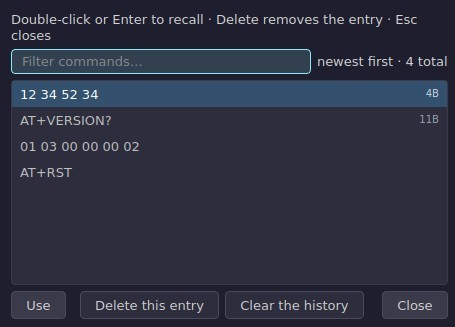
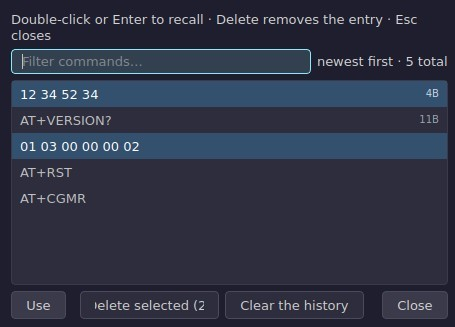
feat(history): multi-select, select-all and batch delete (U183)
The history list was single-selection with a one-row delete. It now uses ExtendedSelection
(Ctrl/Shift click, Ctrl+A limited to the visible rows), the delete button reads
"Delete selected (N)" and greys out when nothing is selected, and one click drops the
whole selection (rows removed high-to-low so indices stay valid, meta cleaned, config
persisted). Enter/double-click fill is unchanged. Three new tests (150 total).
History screenshots regenerated for the new button state.

diff --git a/ui/history_dialog.py b/ui/history_dialog.py
@@ -15,6 +15,7 @@ import time
 from PySide6.QtCore import QRect, Qt, QTimer, Signal
 from PySide6.QtGui import QColor, QFont, QFontMetrics, QKeySequence, QShortcut
 from PySide6.QtWidgets import (
+    QAbstractItemView,
     QApplication,
     QDialog,
     QHBoxLayout,
@@ -106,7 +107,7 @@ class HistoryDialog(QDialog):
     """List of recently sent commands, newest first."""
 
     fill_requested = Signal(str)     # put this text back in the send box
-    delete_requested = Signal(int)   # drop the entry at this row
+    delete_requested = Signal(list)  # drop the entries at these rows (U183: batch)
     clear_requested = Signal()       # forget everything
 
     def __init__(self, parent: QWidget | None = None):
@@ -126,8 +127,9 @@ class HistoryDialog(QDialog):
         self._build_list(layout)
         self._build_buttons(layout)
 
-        QShortcut(QKeySequence(Qt.Key.Key_Delete), self, activated=self._delete_current)
+        QShortcut(QKeySequence(Qt.Key.Key_Delete), self, activated=self._delete_selected)
         QShortcut(QKeySequence(Qt.Key.Key_Escape), self, activated=self.close)
+        QShortcut(QKeySequence("Ctrl+A"), self, activated=self._select_all_visible)
 
         self._restore_size()
         self._apply_filter()
@@ -151,6 +153,9 @@ class HistoryDialog(QDialog):
     def _build_list(self, layout: QVBoxLayout) -> None:
         """The monospace history list and the empty-state label."""
         self.list = QListWidget()
+        # U183: multi-select (Ctrl / Shift click, Ctrl+A) so entries can be deleted
+        # as a batch; Ctrl+A is handled by the shortcut above (QListWidget has none).
+        self.list.setSelectionMode(QAbstractItemView.SelectionMode.ExtendedSelection)
         mono = QFont()
         mono.setFamily(MONO_FAMILIES)
         self.list.setFont(mono)
@@ -159,6 +164,7 @@ class HistoryDialog(QDialog):
         self.list.itemDoubleClicked.connect(self._on_activate)
         self.list.itemActivated.connect(self._on_activate)   # Enter key
         self.list.currentRowChanged.connect(lambda _r: self._sync_buttons())
+        self.list.itemSelectionChanged.connect(self._sync_buttons)
         layout.addWidget(self.list, 1)
 
         self.empty_lbl = QLabel(tr("tx.history.empty"))
@@ -176,7 +182,7 @@ class HistoryDialog(QDialog):
         row.addSpacing(8)
         self.del_btn = QPushButton(tr("tx.history.delete"))
         self.del_btn.setProperty("secondary", True)    # quieter, sits next to fill
-        self.del_btn.clicked.connect(self._delete_current)
+        self.del_btn.clicked.connect(self._delete_selected)
         row.addWidget(self.del_btn)
 
         row.addStretch(1)                              # keep the destructive pair apart
@@ -270,10 +276,28 @@ class HistoryDialog(QDialog):
 
     def _sync_buttons(self) -> None:
         has_rows = self.list.count() > 0
-        has_sel = self.list.currentRow() >= 0 and has_rows and not self.list.currentItem().isHidden()
-        self.fill_btn.setEnabled(bool(has_sel))
-        self.del_btn.setEnabled(bool(has_sel))
+        selected = self._selected_rows()
+        one = self.list.currentRow() >= 0 and has_rows \
+            and not self.list.currentItem().isHidden()
+        self.fill_btn.setEnabled(bool(one))
+        self.del_btn.setEnabled(bool(selected))
+        self.del_btn.setText(tr("tx.history.delete.n", n=len(selected)) if len(selected) > 1
+                             else tr("tx.history.delete"))
         self.clear_btn.setEnabled(has_rows)
+
+    def _selected_rows(self) -> list:
+        """Visible selected rows, ascending (hidden rows are filtered out)."""
+        return sorted(i for i in range(self.list.count())
+                      if self.list.item(i).isSelected() and not self.list.item(i).isHidden())
+
+    def _select_all_visible(self) -> None:
+        """U183: Ctrl+A selects what is on screen - never the filtered-out rows."""
+        self.list.clearSelection()
+        for i in range(self.list.count()):
+            item = self.list.item(i)
+            if not item.isHidden():
+                item.setSelected(True)
+        self._sync_buttons()
 
     # -- actions -------------------------------------------------------------
 
@@ -287,10 +311,11 @@ class HistoryDialog(QDialog):
             self.fill_requested.emit(text)
             self.close()                        # match the double-click behaviour (P1.8)
 
-    def _delete_current(self) -> None:
-        row = self.list.currentRow()
-        if row >= 0 and not self.list.item(row).isHidden():
-            self.delete_requested.emit(row)
+    def _delete_selected(self) -> None:
+        """U183: drop every visible selected row in one batch."""
+        rows = self._selected_rows()
+        if rows:
+            self.delete_requested.emit(rows)
             self._disarm_clear()
 
     def _on_activate(self, item: QListWidgetItem) -> None:

diff --git a/tests/test_history_batch.py b/tests/test_history_batch.py
@@ -1,0 +1,72 @@
+"""U183: batch selection and deletion in the send-history dialog."""
+
+import os
+
+os.environ.setdefault("QT_QPA_PLATFORM", "offscreen")
+
+import pytest                                            # noqa: E402
+
+pytest.importorskip("PySide6")
+
+from PySide6.QtWidgets import QApplication               # noqa: E402
+
+
+@pytest.fixture(scope="module")
+def app():
+    application = QApplication.instance() or QApplication([])
+    return application
+
+
+@pytest.fixture(scope="module")
+def win(app):
+    from ui.main_window import MainWindow
+    window = MainWindow()
+    window.resize(1200, 700)
+    window.show()
+    for _ in range(3):
+        app.processEvents()
+    yield window
+    window.close()
+
+
+def _seed(win, items: list) -> object:
+    """Give the window this history and open the dialog on it."""
+    win._send_history = list(items)
+    win._history_meta = {}
+    win._show_history()
+    dlg = win._history_dlg
+    dlg.filter_edit.clear()      # a leftover filter would hide the seeded rows
+    dlg.list.clearSelection()
+    return dlg
+
+
+def test_batch_delete_removes_every_selected_row(win):
+    """U183: multi-select (Ctrl/Shift) deletes the whole selection in one call."""
+    dlg = _seed(win, ["A", "B", "C", "D"])
+    dlg.list.item(0).setSelected(True)
+    dlg.list.item(2).setSelected(True)
+    assert dlg._selected_rows() == [0, 2]
+    from ui.send_controller import remove_history_entries
+    remove_history_entries(win, dlg._selected_rows())
+    assert win._send_history == ["B", "D"], win._send_history
+
+
+def test_select_all_skips_filtered_out_rows(win):
+    """Ctrl+A must only touch what is on screen, never the filtered-out rows."""
+    dlg = _seed(win, ["AT", "01 03 00 00 00 02", "AT+RST"])
+    dlg.filter_edit.setText("AT")                  # hides the Modbus frame
+    dlg._select_all_visible()
+    rows = dlg._selected_rows()
+    assert rows, "the visible matches should be selected"
+    for row in rows:
+        assert not dlg.list.item(row).isHidden(), row
+    assert len(rows) < 3, "the hidden row must not be selected"
+
+
+def test_single_row_delete_still_works(win):
+    """The old one-row path keeps working (the button label falls back)."""
+    dlg = _seed(win, ["one", "two"])
+    dlg.list.item(1).setSelected(True)
+    assert dlg._selected_rows() == [1]
+    dlg.del_btn.click()
+    assert win._send_history == ["one"], win._send_history

diff --git a/ui/main_window.py b/ui/main_window.py
@@ -87,7 +87,7 @@ from ui.retranslate import retranslate_ui
 from ui.menus import build_menu
 from ui.log_controller import apply_autosave_settings, log_append, log_close, log_header_text, log_open, on_log_line, on_save_log_as, on_save_log_quick, show_autosave_settings
 from ui.receive_controller import append_header_split, append_rx_group, emit_rx_text, flush_byte_frames, flush_rx_frames, on_clear, on_clear_and_counters, on_received, recolor_rx_view, resume_rx_display, rx_tooltip, snapshot_rx_fragments, on_reset_counters, on_filter_changed
-from ui.send_controller import abort_file_send, apply_checksum, clear_history, finish_file_send, flush_history_save, on_history_fill, on_increment_changed, on_quick_send, on_send, on_send_file, prune_history_meta, recall_history, remember_send, remove_history_entry, reset_increment, schedule_history_save, send_file_chunk, show_history, update_history_button, update_payload_size
+from ui.send_controller import abort_file_send, apply_checksum, clear_history, finish_file_send, flush_history_save, on_history_fill, on_increment_changed, on_quick_send, on_send, on_send_file, prune_history_meta, recall_history, remember_send, remove_history_entries, reset_increment, schedule_history_save, send_file_chunk, show_history, update_history_button, update_payload_size
 from ui.connection_controller import ensure_port, notify, on_opened_changed, on_reconnect_toggled, on_worker_error, poll_signals, recolor_status_light, refresh_ports, signals_html, toggle_open, update_port_tooltip
 from ui.params_controller import baud_value, check_baud, check_hex_input, encoding, format_rx, newline_bytes, on_header_changed, on_split_mode_changed, on_tx_fmt_changed, persist_newline, refresh_tx_settings_chip, serial_params, split_byte_params, split_threshold_ms, ts_prefix, update_input_placeholder
 from ui.layout_controller import control_rows, fit_minimum_width, fit_pane_minimums, fit_settings_btn, fit_tx_edit_height, give_data_area_the_room, lock_control_widths, row_need, saved_sizes, widest_row
@@ -608,7 +608,7 @@ class MainWindow(QMainWindow):
 
     def _update_history_button(self) -> None: return update_history_button(self)
 
-    def _remove_history_entry(self, row: int) -> None: return remove_history_entry(self, row)
+    def _remove_history_entries(self, rows: list) -> None: return remove_history_entries(self, rows)
 
     def _clear_history(self) -> None: return clear_history(self)
 

diff --git a/ui/send_controller.py b/ui/send_controller.py
@@ -218,7 +218,7 @@ def show_history(win: MainWindow) -> None:
     if win._history_dlg is None:
         win._history_dlg = HistoryDialog(win)
         win._history_dlg.fill_requested.connect(win._on_history_fill)
-        win._history_dlg.delete_requested.connect(win._remove_history_entry)
+        win._history_dlg.delete_requested.connect(win._remove_history_entries)
         win._history_dlg.clear_requested.connect(win._clear_history)
     win._history_dlg.set_history(win._send_history, win._history_meta)
     win._history_dlg.show()
@@ -294,16 +294,32 @@ def update_history_button(win: MainWindow) -> None:
     if win._history_dlg is not None:
         win._history_dlg.set_history(win._send_history, win._history_meta)
 
+def remove_history_entries(win: MainWindow, rows: list) -> None:
+    """Drop several entries at once (U183) and persist.
+
+    Rows are deleted from the highest index down so the earlier indices stay valid.
+    """
+    clean = sorted({int(r) for r in rows if 0 <= int(r) < len(win._send_history)},
+                   reverse=True)
+    if not clean:
+        return
+    removed = []
+    for row in clean:
+        text = win._send_history.pop(row)
+        win._history_meta.pop(text, None)
+        removed.append(text)
+    win._update_history_button()
+    win._schedule_history_save()
+    if len(removed) == 1:
+        win._notify(tr("tx.history.removed", text=removed[0]), "info", ms=3000)
+    else:
+        win._notify(tr("tx.history.removed.n", n=len(removed)), "info", ms=3000)
+
+
 def remove_history_entry(win: MainWindow, row: int) -> None:
     "remove history entry"
     """Drop one entry from the send history and persist (U77)."""
-    if not (0 <= row < len(win._send_history)):
-        return
-    removed = win._send_history.pop(row)
-    win._history_meta.pop(removed, None)
-    win._update_history_button()
-    win._schedule_history_save()
-    win._notify(tr("tx.history.removed", text=removed), "info", ms=3000)
+    remove_history_entries(win, [row])
 
 def clear_history(win: MainWindow) -> None:
     "clear history"

diff --git a/app/i18n.py b/app/i18n.py
@@ -412,6 +412,7 @@ STRINGS: dict[str, dict[str, str]] = {
     "tx.history.empty": {"zh": "还没有发送记录", "en": "Nothing sent yet"},
     "tx.history.close": {"zh": "关闭", "en": "Close"},
     "tx.history.delete": {"zh": "删除此条", "en": "Delete this entry"},
+    "tx.history.delete.n": {"zh": "删除选中 ({n})", "en": "Delete selected ({n})"},
     "tx.history.clear": {"zh": "清空发送历史", "en": "Clear the history"},
     "tx.history.clear.arm": {"zh": "确认清空？", "en": "Confirm clear?"},
     "tx.history.clear.tip": {"zh": "再次点击确认；会清空全部发送历史（不可撤销）",
@@ -425,6 +426,7 @@ STRINGS: dict[str, dict[str, str]] = {
     "tx.history.ago.hour": {"zh": "{n} 小时前", "en": "{n} h ago"},
     "tx.history.ago.day": {"zh": "{n} 天前", "en": "{n} d ago"},
     "tx.history.removed": {"zh": "已删除历史：{text}", "en": "Removed from history: {text}"},
+    "tx.history.removed.n": {"zh": "已删除 {n} 条发送历史", "en": "Removed {n} history entries"},
     "tx.history.cleared": {"zh": "已清空发送历史", "en": "Send history cleared"},
     # ---- file send (T6) ----
     "btn.send_file": {"zh": "发送文件", "en": "Send file"},
